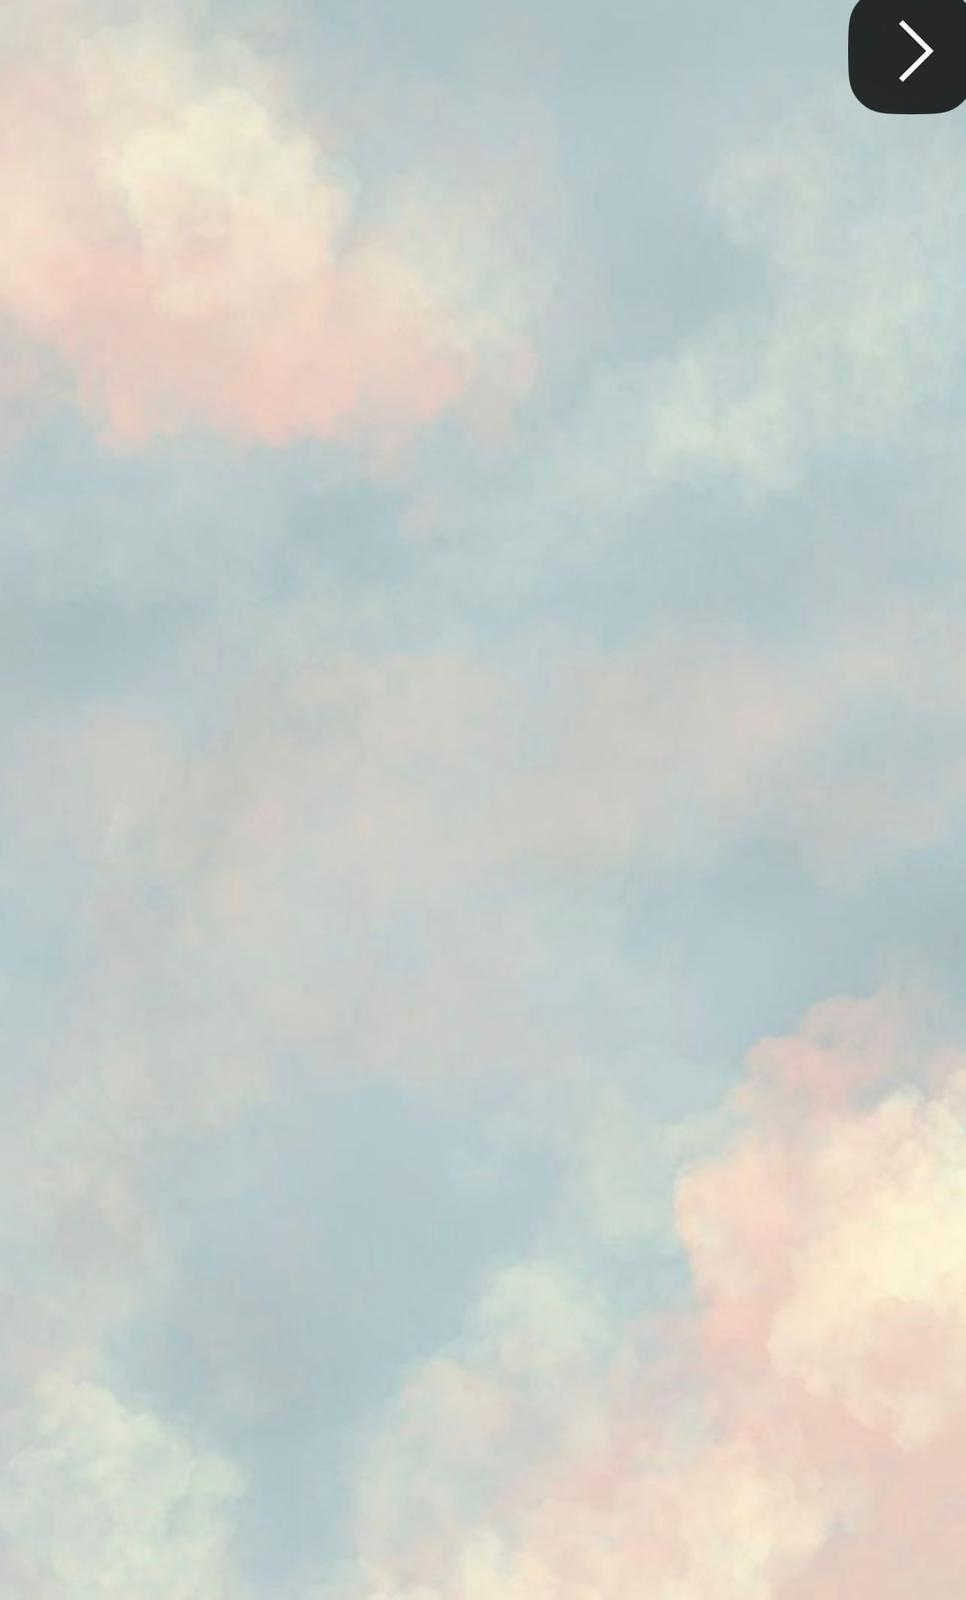
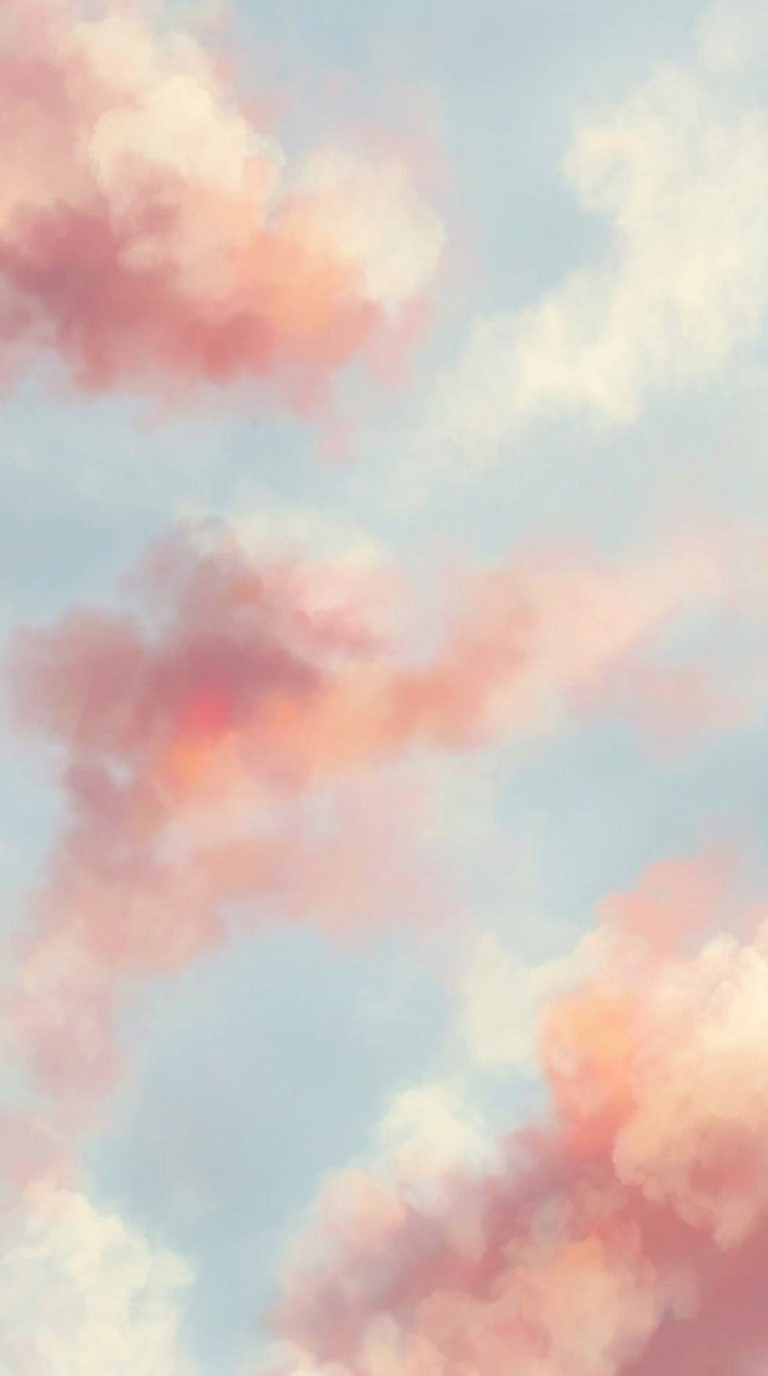
Changes

diff --git a/.lovable/plan.md b/.lovable/plan.md
@@ -1,77 +1,30 @@
-# Seamless Floating Site Overhaul
+# Enrich the Cloud Backdrop with Sunset Warmth
 
-## 1. Global Cloud Canvas (fixed + parallax)
+Single, focused change: re-render `src/assets/cloudscape.jpg` with deeper, diffused pink + nectarine glow in the cloud shadows. No code or layout changes — the existing fixed backdrop will display the new image automatically.
 
-**`src/components/decor/CloudBackdrop.tsx`** — rebuild as a `fixed inset-0 -z-10` layer (covers viewport, never scrolls out). Use the existing `cloudscape.jpg` as the image.
+## What changes
 
-- Outer wrapper: `fixed inset-0 -z-10 pointer-events-none overflow-hidden`
-- Inner image layer: oversized (`h-[140%] w-full`), `bg-[url(cloudscape)]` with `bg-cover bg-center bg-no-repeat`, transformed via a scroll listener to translate ~30% of `window.scrollY` (subtle parallax — clouds move slower than content).
-- A very light cream wash overlay (`bg-background/30`) for text legibility. No new colors.
-- Mount once in `Index.tsx` (already done) — but move it OUT of the `relative` main wrapper so it stays fixed to the viewport, not absolute to the page.
+Use `imagegen--edit_image` on the existing `src/assets/cloudscape.jpg` with this direction:
 
-**`src/pages/Index.tsx`** — render `<CloudBackdrop />` as a sibling before `<main>`, and drop `bg-background` from `<main>` so the body shows through.
+> Enhance this dreamy pastel cloudscape by infusing warm sunset tones — deep blush pink and soft nectarine orange — specifically into the **shadow areas** and undersides of the clouds, as if golden-hour light is grazing through the mist. Keep the highlights cream and airy. Bump saturation of the pink and peach hues only in select pockets to create rich warm "glow zones," while the rest stays pale and ethereal. The result must remain a 100% soft-focus, blurred, painterly atmosphere — no hard edges, no solid color blocks, no defined shapes. Slightly increase overall depth and contrast between shadow and highlight, but never make it heavy or dark. Light, breathable, soulful.
 
-## 2. Transparent, seamless sections
+Output saved back to `src/assets/cloudscape.jpg` (overwrites). Aspect ratio: `9:16` (matches the current tall, viewport-cover usage).
 
-Audit and clean each landing section so nothing breaks the cloud flow:
+## What does NOT change
 
-- `HeroSection.tsx`, `AboutSection.tsx`, `ServicesSection.tsx`, `TestimonialsSection.tsx`, `ContactSection.tsx`, `Footer.tsx`:
-  - Remove any `bg-*`, `border-t`, `border-b`, ring, or decorative divider strips on the section root.
-  - Keep internal padding but normalize vertical rhythm (`py-20 md:py-28`) so sections breathe without hard gaps.
-  - Testimonial cards keep their colored backgrounds (those are content, not section dividers).
+- `CloudBackdrop.tsx` — keep static, fixed, `background-size: cover`.
+- Section transparency, layout, padding — untouched.
+- Cream overlay (`bg-background/30`) — untouched. The image lives behind it, so warmth shows through softly without bleeding into content.
+- No new colors in the design tokens.
+- No business logic, no copy.
 
-## 3. Mobile horizontal carousels (Services + Testimonials)
+## Verification
 
-Use the existing `@/components/ui/carousel` (embla) with `useIsMobile()` to switch layout.
-
-**Behavior on mobile only (`< 768px`):**
-- `opts={{ align: 'center', loop: false, containScroll: 'trimSnaps' }}`
-- Each `CarouselItem` set to `basis-[85%]` so the next card peeks ~15%.
-- Add `pl-4` gutter and a leading/trailing spacer so first/last cards center properly.
-- Native scroll-snap is handled by embla.
-- **Active scale (1.05x):** subscribe to embla `select` + `scroll` events; track selected index in state; apply `scale-105` class to the centered item, `scale-95 opacity-80` to others, with `transition-transform duration-300`.
-- **Pagination dots:** small row of buttons under the carousel — `h-2 w-2 rounded-full bg-foreground/20`, active = `w-6 bg-hoodie-coral`. Click jumps via `api.scrollTo(i)`.
-
-**Desktop (`md:` and up):** unchanged — keep current 3-column grid.
-
-Implementation pattern (shared mini-component or inline in each section):
-
-```text
-isMobile
-  ├─ <Carousel>
-  │   ├─ items mapped → <CarouselItem basis-[85%]>
-  │   └─ scale based on selectedIndex
-  └─ <Dots count={n} active={selectedIndex} onSelect={api.scrollTo} />
-desktop
-  └─ existing grid
-```
-
-Files touched: `ServicesSection.tsx`, `TestimonialsSection.tsx`.
-
-## 4. Instagram brand gradient button
-
-In `ContactSection.tsx`, the Instagram link already has the radial gradient. Strengthen the "pop" against clouds:
-- Add a thin white inner ring (`ring-2 ring-white/70`) and a stronger soft shadow.
-- Confirm icon is pure white, size unchanged.
-
-No new colors introduced; only adjusting depth.
+After regeneration:
+- Visual check in preview at mobile + desktop: warm pink pockets visible in shadow zones, highlights still cream, content still readable.
+- If the cream overlay mutes the warmth too much, lower it from `/30` to `/20`. Otherwise leave it.
 
 ## Files
 
-**Edit:**
-- `src/components/decor/CloudBackdrop.tsx` (fixed + parallax)
-- `src/pages/Index.tsx` (mount cloud as fixed sibling, drop `bg-background`)
-- `src/components/landing/HeroSection.tsx`
-- `src/components/landing/AboutSection.tsx`
-- `src/components/landing/ServicesSection.tsx` (mobile carousel)
-- `src/components/landing/TestimonialsSection.tsx` (mobile carousel)
-- `src/components/landing/ContactSection.tsx` (IG ring/shadow)
-- `src/components/landing/Footer.tsx` (transparent)
-
-**No new files, no new colors, no business-logic changes.**
-
-## Technical notes
-
-- Parallax uses a passive `scroll` listener with `requestAnimationFrame` throttling and `prefers-reduced-motion` opt-out (no transform if user prefers reduced motion).
-- `fixed` backdrop avoids the "background repeats and seams" problem entirely — image is rendered once, viewport-sized.
-- Embla's `containScroll: 'trimSnaps'` + `align: 'center'` gives the peek + snap behavior natively; no custom scroll math.
+**Edit (image only):** `src/assets/cloudscape.jpg`
+**Possibly tweak (1 token):** `src/components/decor/CloudBackdrop.tsx` overlay opacity, only if warmth reads too faint.
